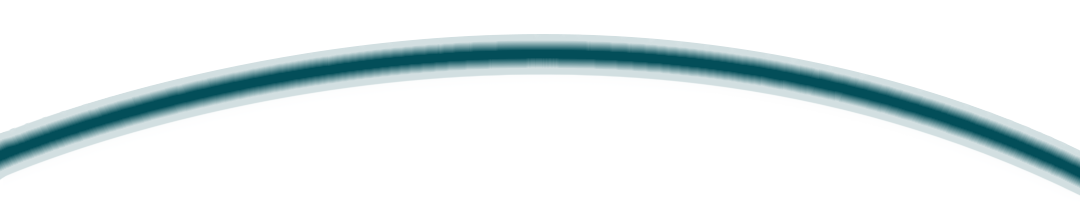
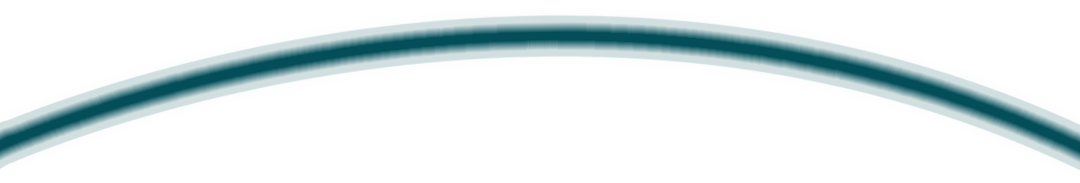
imported membrane

Changed region(s): [[0.0611, 0.082, 1.0, 0.9563], [0.0, 0.6284, 0.1222, 0.9016]]

diff --git a/src/scenes/Level.ts b/src/scenes/Level.ts
@@ -133,6 +133,12 @@ export default class Level extends entity.CompositeEntity {
       );
       this.container.addChild(particles2);
 
+      const membrane = new PIXI.Sprite(
+        this._entityConfig.app.loader.resources["images/membrane.png"].texture
+      );
+      membrane.position.set(0, 300);
+      this.container.addChild(membrane);
+
       // Make hair
       for (let i = 0; i < hairCount; i++) {
         this.container.addChild(
@@ -142,12 +148,6 @@ export default class Level extends entity.CompositeEntity {
           )
         );
       }
-
-      const membrane = new PIXI.Sprite(
-        this._entityConfig.app.loader.resources["images/membrane.png"].texture
-      );
-      membrane.position.set(0, 300);
-      this.container.addChild(membrane);
     }
 
     this.inventory = new Inventory();
@@ -380,7 +380,7 @@ export default class Level extends entity.CompositeEntity {
     hair.anchor.set(0.5, 1);
 
     const radius = 1337;
-    const centerY = 340 + radius;
+    const centerY = 313 + radius;
     hair.position.set(
       radius * Math.cos(angle + Math.PI / 2) +
         this._entityConfig.app.view.width / 2,
